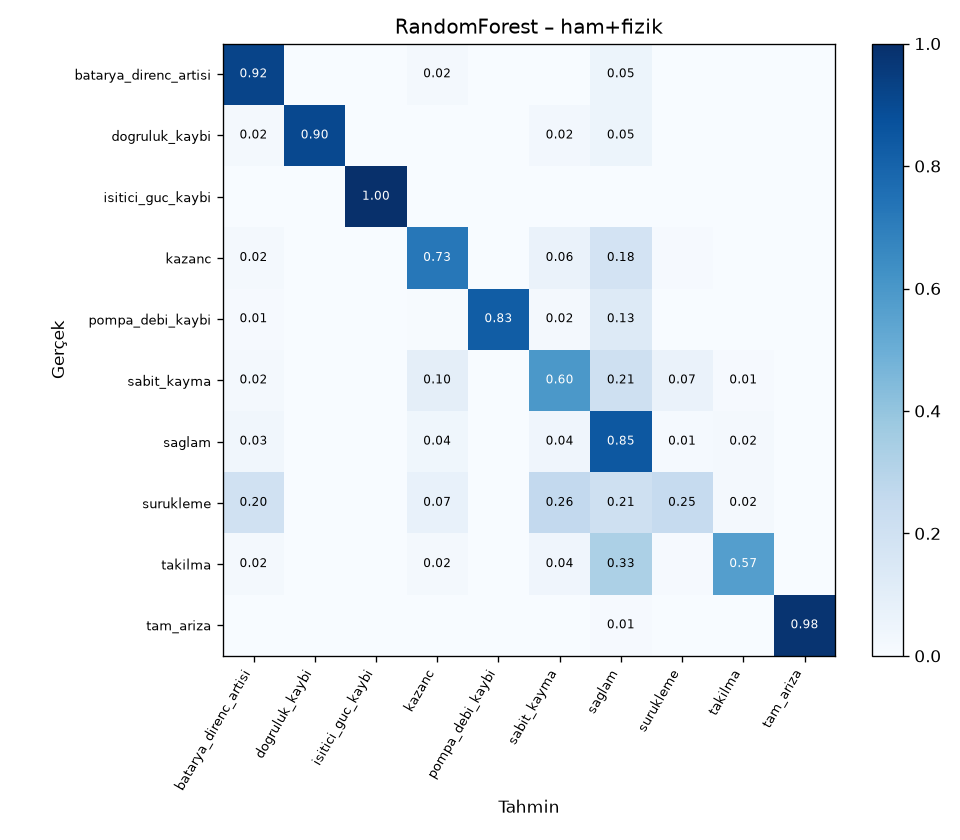
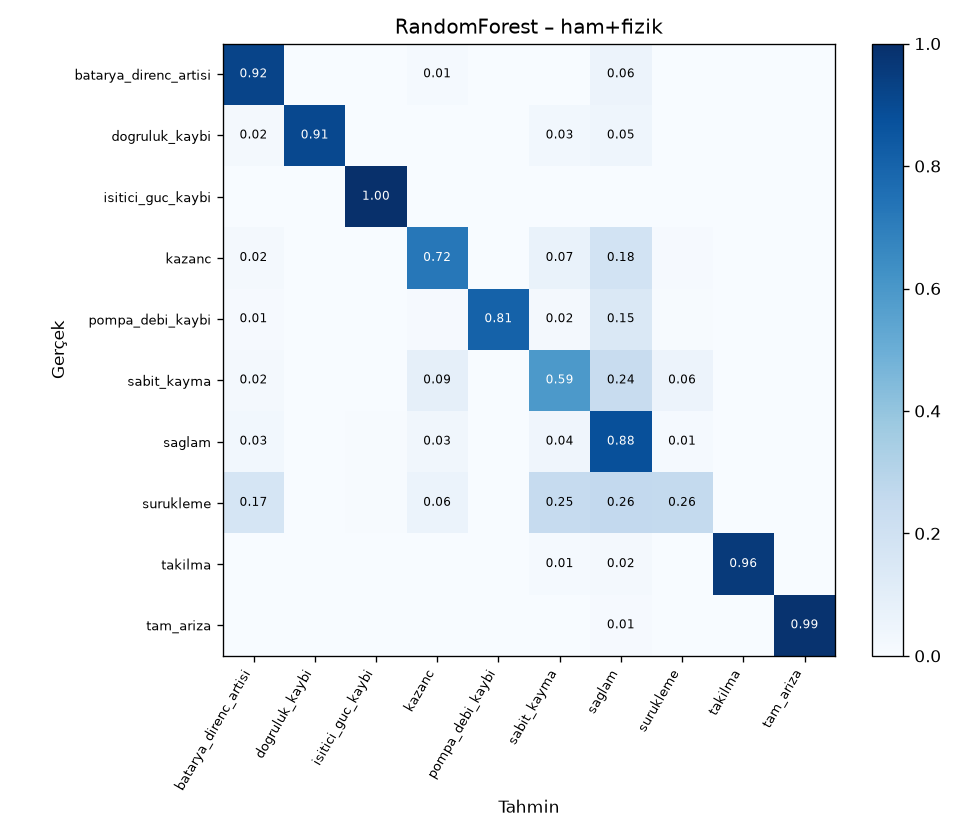
.

diff --git a/model/veri_hazirla.py b/model/veri_hazirla.py
@@ -75,6 +75,18 @@ split = pd.read_csv(SPLIT, sep=";")
 grup = dict(zip(split["dosya"], split["grup"]))
 liste = pd.read_csv(os.path.join(ARIZALI, "ariza_listesi.csv"), sep=";")
 liste = liste[liste["kullanilabilir"]]                      # görünmeyen arızalar çıkarılır (A seçeneği)
+# BİZİM KARARIMIZ (yanlis_alarm_analizi.py bulgusu): batarya sıcaklık sensörü TAKILMASI gözlemlenemez kabul edilir
+# ve eğitimden de değerlendirmeden de çıkarılır. Kanıt (ham+fizik+gecmis, 5 kat):
+#   (1) sağlam sıcaklık da sık sık 5 dk boyunca hiç değişmiyor (1 °C çözünürlük; sağlam pencerelerin ~%33'ü)
+#   (2) RF ve XGBoost bu arızayı yalnızca %5–7 oranında doğru buldu
+#   (3) bu sınıf yüzünden sıcaklığı sabit sağlam pencereler 16 kat daha sık "takılma" sanıldı
+#       (%14.2 / %0.9; XGBoost yanlış alarmlarının %37'si)
+# Görünürlük filtresi (değişen oran ≥ %5) bu dosyaları geçiriyor, çünkü gerçek sıcaklık arada 1 °C değişince
+# donmuş değer ondan farklı oluyor; ama aynı durum sağlam veride de olağan (sıcaklık dakikalarca sabit).
+GOZLEMLENEMEZ = {("takilma", T_BAT)}
+cikan = [(a, s) in GOZLEMLENEMEZ for a, s in zip(liste["ariza_tipi"], liste["ariza_sinyali"])]
+print(f"Gözlemlenemez kabul edilip çıkarılan arızalı dosya: {sum(cikan)}  {sorted(GOZLEMLENEMEZ)}\n")
+liste = liste[~np.array(cikan)]
 
 saglam = {os.path.basename(f): pd.read_csv(f, sep=";") for f in sorted(glob.glob(os.path.join(TEMIZ, "*.csv")))}
 egitim_surusleri = sorted(a for a in saglam if grup.get(a) == "egitim")
@@ -247,6 +259,7 @@ bilgi = {
     "pencere_satir": PENCERE, "adim_satir": ADIM, "dl_seyreklestir": DL_SEYREKLESTIR,
     "ham_kanallar": HAM, "fizik_kanallar": list(YENI), "ozellik_gruplari": ozellik_gruplari,
     "kat": kat, "kat_bagimli": KAT_BAGIMLI, "min_akim_std": MIN_AKIM_STD, "gecmis_satir": GECMIS,
+    "gozlemlenemez": sorted(GOZLEMLENEMEZ),
 }
 with open(os.path.join(CIKTI, "bilgi.json"), "w", encoding="utf-8") as f:
     json.dump(bilgi, f, ensure_ascii=False, indent=1)

diff --git a/model/yedekle.py b/model/yedekle.py
@@ -8,7 +8,7 @@ from ortak import ANA_KLASOR
 
 # ml_modeller.py'nin ürettiği sonuçları ayrı bir klasöre kopyalar (bir sonraki çalıştırma üzerine yazmasın diye).
 # Kullanım: ETIKET'i değiştir, çalıştır. Asıl dosyalar silinmez, yalnızca kopyalanır.
-ETIKET = "baslangic"        # ör. "baslangic", "yeni_ozellikler", "ayarli"
+ETIKET = "uzun_gecmis"        # ör. "baslangic", "yeni_ozellikler", "ayarli"
 
 hedef = os.path.join(ANA_KLASOR, "reports", "model", ETIKET)
 if os.path.exists(hedef):
